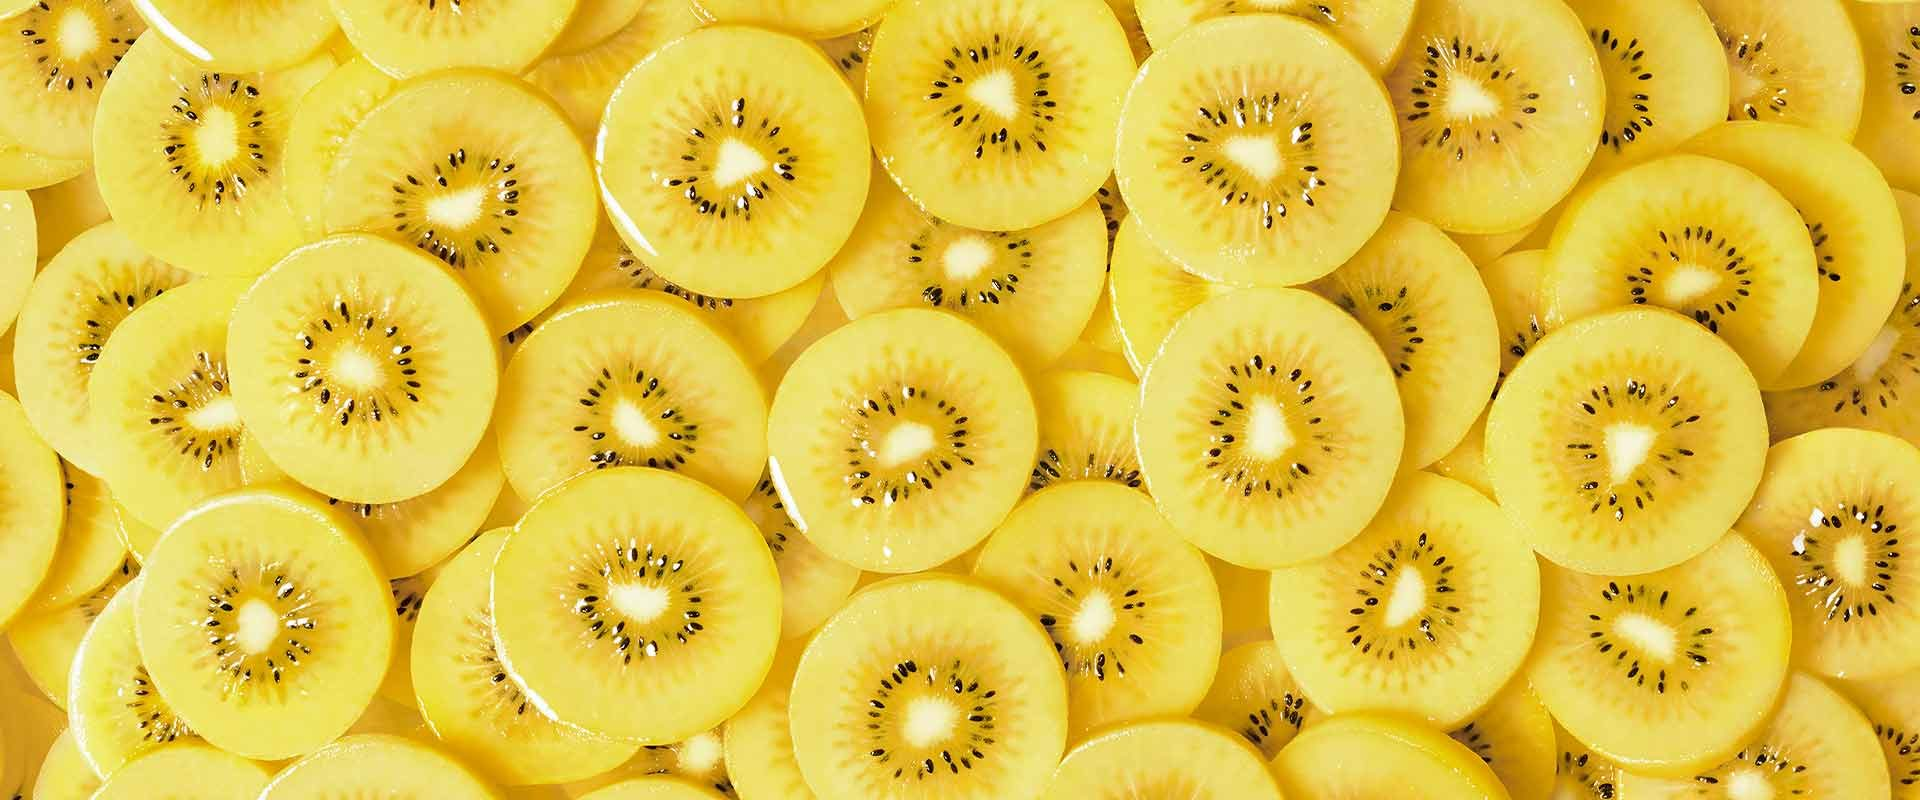
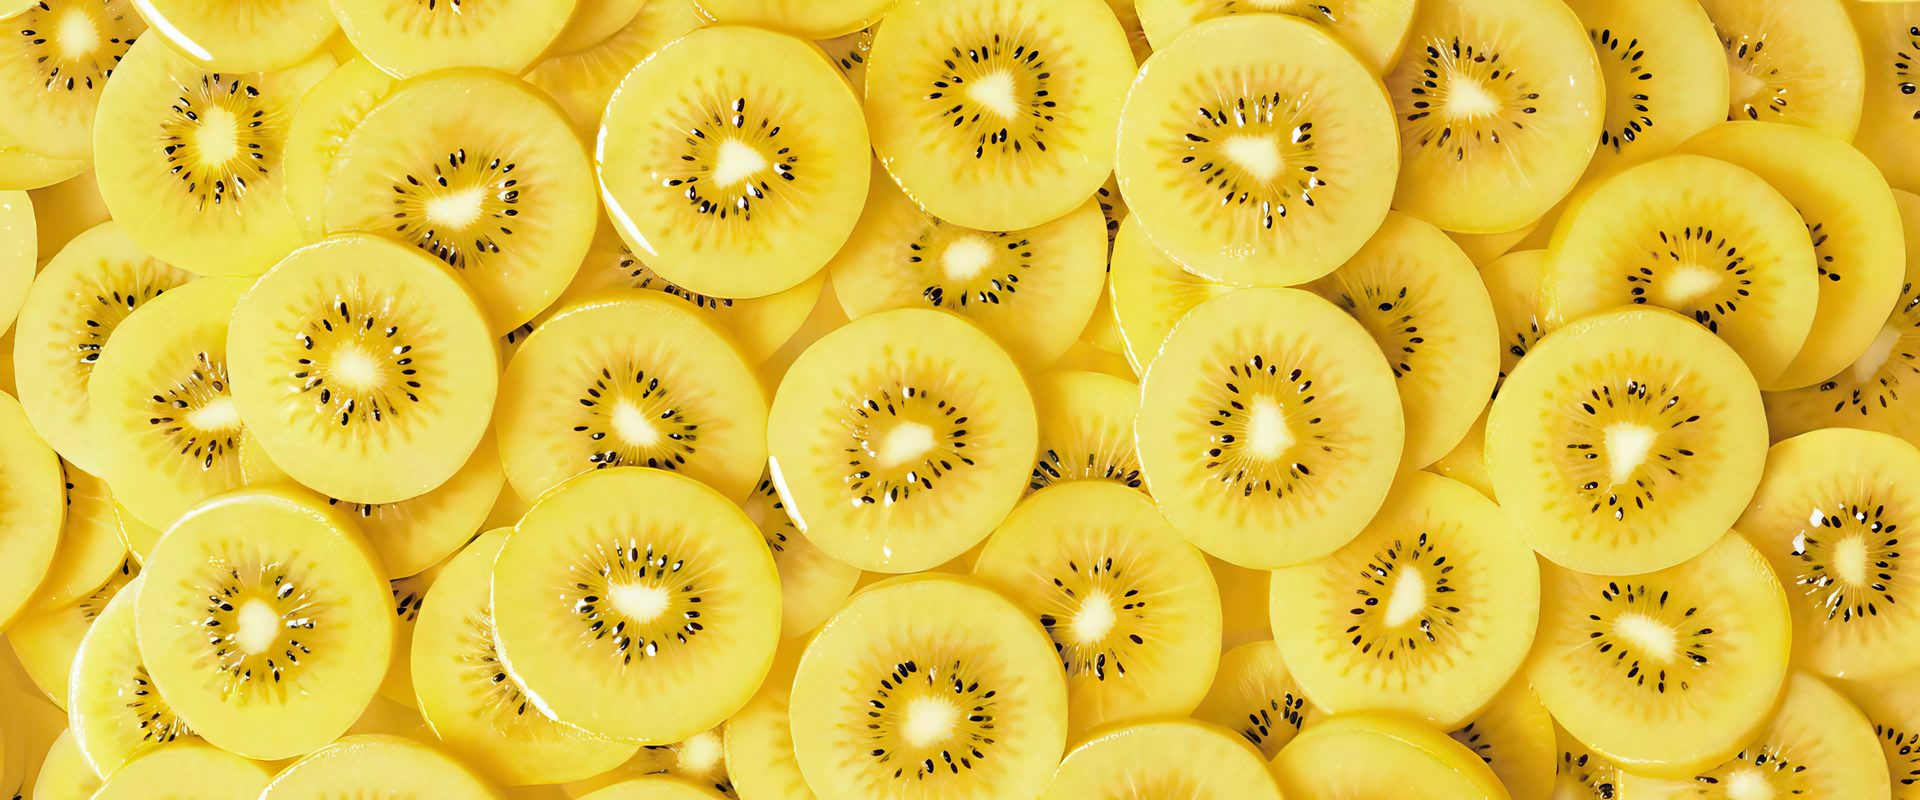
Add files via upload

diff --git a/README.md b/README.md
@@ -13,9 +13,15 @@ For GitHub Pages specifically: commit the folder as-is, flat, to the repo (or th
 
 ## Version
 
-This package is HONIORA_site_v323, updated 2026-09-11. Added a "Livaux" link to the lite/mobile site's left slide-out nav menu, directly below "Mānuka Honey", anchored to the new Livaux section.
+This package is HONIORA_site_v324, updated 2026-09-11. Replaced the Livaux section's background photo with a new, higher-resolution version of the same sliced gold kiwifruit image the user supplied.
 
 Recent changes in this version:
+- Assets: replaced `livaux_kiwi_bg.jpg` and `livaux_kiwi_bg-lite.jpg` with versions converted from the user's new, higher-resolution (3840x1600) source photo of sliced gold kiwifruit, same 2.4:1 aspect ratio as before -- resized to 1920px wide (desktop, 219KB) and 900px wide (mobile lite, 57KB), same filenames, so no HTML or CSS changes were needed.
+- Verified: zero horizontal overflow and zero console/page errors at 360/390/414/1425/1440px. Reviewed full-page screenshots at 1440px and 390px: the new background renders correctly behind the `.livaux-box` frosted card at both widths, with the kiwifruit visible in full colour on both sides of the box at desktop width and at the top of the section at mobile width. All section ids still unique, eyebrow sequence still 01-17.
+
+Previous version (v323): Added a "Livaux" link to the lite/mobile site's left slide-out nav menu, directly below "Mānuka Honey", anchored to the new Livaux section.
+
+Changes in v323:
 - Content: added `<a href="#livaux">Livaux</a>` to `#mmLeft` (the lite site's left mobile menu column, opened by the left burger button), placed directly after "Mānuka Honey" and before "Function" per the user's request. No other links in either mobile menu column changed.
 - Verified: opened the left mobile menu at 390px and confirmed "Livaux" appears in the correct position (Protocol / Mānuka Honey / Livaux / Function / The Stack / Gut · Heart · Brain / Taste). Clicked the new link and confirmed it closes the menu and scrolls to the Livaux section, landing with its top correctly offset below the sticky header. Zero horizontal overflow and zero console/page errors at 360/390/414/1425/1440px. All section ids still unique, eyebrow sequence still 01-17.
 
